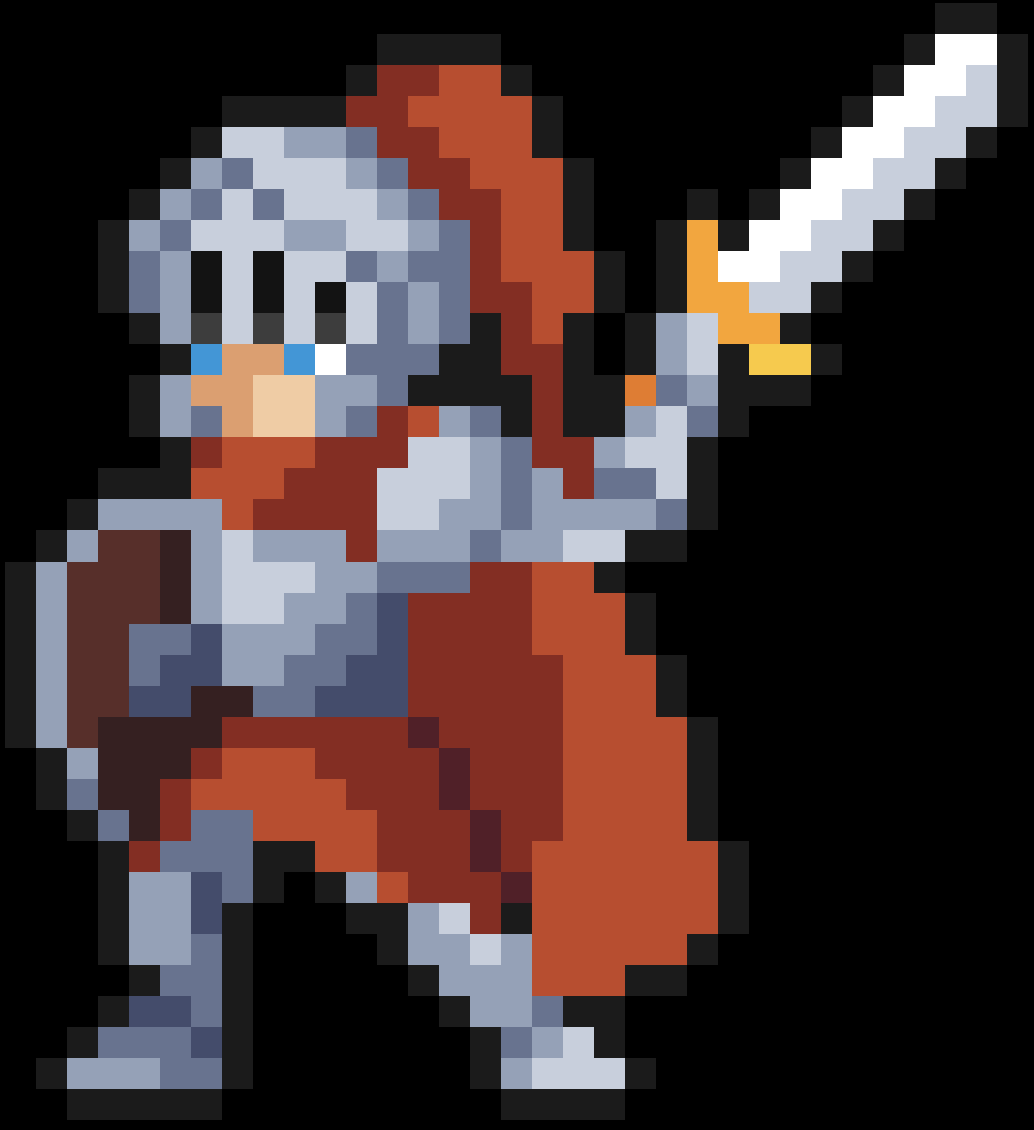
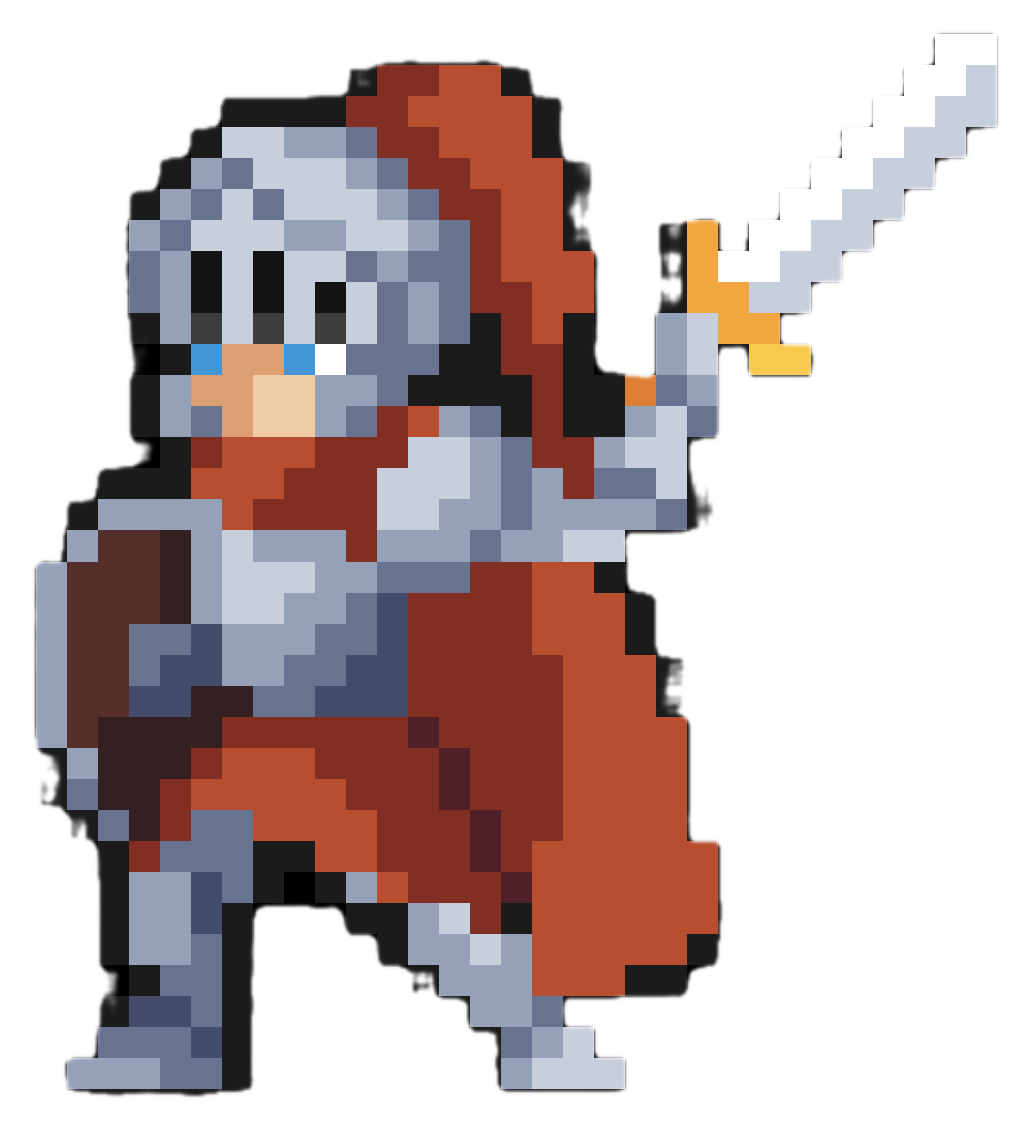
adicao de operator, correcao de codigo falho e jeitei o sprite dos cavaleiros

diff --git a/src/GerenciadorColisoes.cpp b/src/GerenciadorColisoes.cpp
@@ -19,7 +19,11 @@ namespace Gerenciadores {
         return instance;
     }
 
-    GerenciadorColisoes::GerenciadorColisoes() : pJog1(NULL), pJog2(NULL), limites(800.f, 600.f) {}
+    GerenciadorColisoes::GerenciadorColisoes() : pJog1(NULL), pJog2(NULL), limites(800.f, 600.f) {
+        ListaInimigos.clear();
+        ListaObstaculos.clear();
+        ListaProjetil.clear();
+    }
 
     GerenciadorColisoes::~GerenciadorColisoes() {}
 
@@ -278,6 +282,7 @@ void GerenciadorColisoes::removerJogadores(){
             if (boss == NULL) continue;
 
             Entidades::Projetil* proj = boss->getProjetil();
+            ListaProjetil.insert(proj);
 
             if (proj == NULL || !proj->estaAtivo())
                 continue;
@@ -289,6 +294,7 @@ void GerenciadorColisoes::removerJogadores(){
 
             if (std::abs(dx1) < metade + 8.f && std::abs(dy1) < metade + 8.f) {
                 proj->desativar();
+                ListaProjetil.erase(proj);
                 //if (!pJog1->estaImune())
                     pJog1->setInvulnerabilidade(0.9);
                     pJog1->tomarDano();
@@ -303,6 +309,7 @@ void GerenciadorColisoes::removerJogadores(){
 
                 if (std::abs(dx2) < metade + 8.f && std::abs(dy2) < metade + 8.f) {
                     proj->desativar();
+                    ListaProjetil.erase(proj);
                     //if (!pJog2->estaImune())
                         pJog2->setInvulnerabilidade(0.9);
                         pJog2->tomarDano();

diff --git a/src/FasePrimeira.cpp b/src/FasePrimeira.cpp
@@ -52,16 +52,19 @@ void FasePrimeira::criarInimigosDemonio(){
         Grid espaco = static_cast<Grid>(aux);
         if(mapa.estaOcupado(espaco)){
             CoordF pos = mapa.getCoord(espaco);
-            pos.y = pos.y-30;
-            Demonio* pDemo = NULL;
-            pDemo = new Demonio(pos, 2, 10.0f, 1 + (rand() % 10));
+            if(!mapa.estaOcupadoSpawn(espaco)){
+                pos.y = pos.y-30;
+                Demonio* pDemo = NULL;
+                pDemo = new Demonio(pos, 2, 10.0f, 1 + (rand() % 10));
  
-            if(pDemo!=NULL){
-                num_demonios_criados++;
-                vInimigos.push_back(pDemo);
- 
-                list_ents.incluir(pDemo);
-                pGC->incluirInimigo(pDemo);
+                if(pDemo!=NULL){
+                    num_demonios_criados++;
+                    vInimigos.push_back(pDemo);
+                    mapa.setOcupadoSpawn(espaco,true);
+                    
+                    list_ents.incluir(pDemo);
+                    pGC->incluirInimigo(pDemo);
+                }
             }
  
             else{
@@ -152,7 +155,6 @@ void FasePrimeira::executar(Personagens::Jogador* pJ1, Personagens::Jogador* pJ2
     tam_tela_compensada.y -= 8.0f; // Deixa a colisao mais bonita com os limites
     pGC->setLimite(tam_tela_compensada);
 
-    //list_ents.incluir(pJ1);
 
     sf::Clock clock;
     //setando o jogador

diff --git a/include/Fase.hpp b/include/Fase.hpp
@@ -29,10 +29,11 @@ class Map{
 private:
     std::map<Grid,CoordF> CoordGrid;
     std::map<Grid,bool> CoordUsado;
+    std::map<Grid,bool> CoordUsadoSpawn;
     
 public:
     Map() {
-        CoordGrid[T1] = CoordF(0.f, 120.f);
+        CoordGrid[T1] = CoordF(0.f, 150.f);
         CoordGrid[T2] = CoordF(270.f, 160.f);
         CoordGrid[T3] = CoordF(570.f, 180.f);
         CoordGrid[M1] = CoordF(0.f, 350.f);
@@ -45,6 +46,10 @@ public:
         CoordUsado[T1] = false; CoordUsado[T2] = false; CoordUsado[T3] = false;
         CoordUsado[M1] = false; CoordUsado[M2] = false; CoordUsado[M3] = false;
         CoordUsado[B1] = false; CoordUsado[B2] = false; CoordUsado[B3] = false;
+        
+        CoordUsadoSpawn[T1] = false; CoordUsadoSpawn[T2] = false; CoordUsadoSpawn[T3] = false;
+        CoordUsadoSpawn[M1] = false; CoordUsadoSpawn[M2] = false; CoordUsadoSpawn[M3] = false;
+        CoordUsadoSpawn[B1] = false; CoordUsadoSpawn[B2] = false; CoordUsadoSpawn[B3] = false;
     }
 
     void coordUsada(CoordF coord) {
@@ -71,6 +76,14 @@ public:
         void setOcupado(Grid espaco, bool ocupado) {
             CoordUsado[espaco] = ocupado;
         }
+    
+    bool estaOcupadoSpawn(Grid espaco){
+        return CoordUsadoSpawn[espaco];
+    }
+    
+    void setOcupadoSpawn(Grid espaco, bool ocupado){
+        CoordUsadoSpawn[espaco] = ocupado;
+    }
 };
     
 namespace Fases {

diff --git a/src/Fase.cpp b/src/Fase.cpp
@@ -100,16 +100,24 @@ void Fase::criarInimigosBixo(){
     for(int i = 0; i < Max_inimBixo; i++){
         Grid espaco = espacosOcupados[rand() % espacosOcupados.size()];
         CoordF pos = mapa.getCoord(espaco);
-
-        Bixo* pInim = new Personagens::Bixo(pos);
-        pos.y = pos.y-40;
-        if(pInim != NULL){
-            vInimigos.push_back(pInim);
-
-            mapa.setOcupado(espaco, false);
-
-            list_ents.incluir(pInim);
-            pGC->incluirInimigo(pInim);
+        
+        if(!mapa.estaOcupadoSpawn(espaco)){
+            
+            
+            
+            Bixo* pInim = new Personagens::Bixo(pos);
+            pos.y = pos.y-40;
+            if(pInim != NULL){
+                vInimigos.push_back(pInim);
+                
+                mapa.setOcupado(espaco, false);
+                mapa.setOcupadoSpawn(espaco,true);
+                
+                list_ents.incluir(pInim);
+                pGC->incluirInimigo(pInim);
+            }
+        }else{
+            i--;
         }
     }
 }

diff --git a/src/Demonio.cpp b/src/Demonio.cpp
@@ -53,6 +53,9 @@ namespace Personagens {
         pos.y += vel.y * dt;
 
     }
+    void Demonio::operator++(){
+        fome++;
+    }
 
 
     void Demonio::danificar(Jogador* pJog){
@@ -63,13 +66,14 @@ namespace Personagens {
                 
                 if(olhandoEsquerda){
                     pJog->setPos(CoordF(pJog->getPos().x+60,pJog->getPos().y-30)); // pulinho para tras
+                    this->operator++();
                 }
                 else{
                     pJog->setPos(CoordF(pJog->getPos().x-60,pJog->getPos().y-30)); // pulinho para frente
+                    this->operator++();
                     
                     
                 }
-                //pJog->setInvulneravel(true); // depois de levar o dano fica imune
             }
             
             

diff --git a/src/Gelo.cpp b/src/Gelo.cpp
@@ -42,12 +42,11 @@ bool Gelo::obstruir(CoordF& posJogador, float& velocidadeX, float& velocidadeY,
 
     if (colisaoX && colisaoY) {
         // tremida lateral aleatória
-        float tremida = (rand() % 5) - 2.f; // -2, -1, 0, 1 ou 2 pixels
-        posJogador.x += tremida;
+        float tremida = (rand() % 5) - 2.f; //-2,-1,0,1,2 pixels
+        posJogador.x += tremida*temperatura;
 
-        // empurra levemente pra baixo — ativa a queda
-        velocidadeX = 80.f; // valor fixo, sem depender de temperatura
-        //noChao = false;
+        velocidadeX = 80.f/temperatura;
+        noChao = false;  //faz o boneco ter animacao de escorregar
         return true;
     }
 

diff --git a/src/Bixo.cpp b/src/Bixo.cpp
@@ -9,22 +9,6 @@ namespace Personagens {
     
     Bixo::~Bixo() {}
     
-    // void Bixo::executar() {
-
-    //     this->atualizarAnimacao(Animation_ID::idle,olhandoEsquerda,dt_local);
-
-    //     bool jogadorMaisProx = this->jogadorProximo();
-
-    //     if(jogadorMaisProx) { // False = jog1, True = jog2
-    //         this->perseguir(pJogador2->getPos(), dt_local);
-            
-    //         }
-    //     else {
-    //         this->perseguir(pJogador1->getPos(), dt_local);
-            
-    //     }
-    //     this->desenhar();
-    // }
     
     void Bixo::executar() {
         this->atualizarAnimacao(Animation_ID::idle, olhandoEsquerda, dt_local);

diff --git a/include/GerenciadorColisoes.hpp b/include/GerenciadorColisoes.hpp
@@ -3,12 +3,14 @@
  
 #include <vector>
 #include <list>
+#include <set>
 #include <cmath>
 #include "Jogador.hpp"
 #include "Inimigo.hpp"
 #include "Demonio.hpp"
 #include "Bixo.hpp"
 #include "Obstaculo.hpp"
+#include "Projetil.hpp"
  
 using namespace Personagens;
 using namespace Obstaculos;
@@ -20,6 +22,7 @@ namespace Gerenciadores {
  
             std::vector<Personagens::Inimigo*> ListaInimigos;
             std::list<Obstaculos::Obstaculo*> ListaObstaculos;
+            std::set<Entidades::Projetil*> ListaProjetil;
             
             Personagens::Jogador* pJog1;
             Personagens::Jogador* pJog2;

diff --git a/src/Jogo.cpp b/src/Jogo.cpp
@@ -39,12 +39,12 @@ void Jogo::executar() {
     if(fase == 0)
         return;
 
-    pJ1 = new Personagens::Jogador(CoordF(200.f,200.f),300,0,200.f);
+    pJ1 = new Personagens::Jogador(CoordF(200.f,200.f),200,0,200.f);
     pJ1->initialize(true);
 
     pJ2 = NULL;
     if (pMenu->getMultiplayer()) {
-        pJ2 = new Personagens::Jogador(CoordF(240.f,200.f),3,0,200.f);
+        pJ2 = new Personagens::Jogador(CoordF(240.f,200.f),200,0,200.f);
         pJ2->initialize(false);
     }
 

diff --git a/src/Ente.cpp b/src/Ente.cpp
@@ -14,15 +14,3 @@ Ente::~Ente() {}
 void Ente::desenhar(){
     sprite.render();
 }
-
-// void Ente::desenharHitbox() {
-//     std::cout << "Desnhando hitbox (debug)" << std::endl;
-//     sf::RectangleShape debug = hitbox;
-
-//     debug.setFillColor(sf::Color::Transparent);
-//     debug.setOutlineThickness(2.f);
-//     debug.setOutlineColor(sf::Color::Red);
-
-//     pGG->getWindow()->draw(debug);
-// }
-

diff --git a/src/FaseSegunda.cpp b/src/FaseSegunda.cpp
@@ -147,7 +147,6 @@ void FaseSegunda::executar(Personagens::Jogador* pJ1, Personagens::Jogador* pJ2)
     tam_tela_compensada.y -= 8.0f; // Deixa a colisao mais bonita com os limites
     pGC->setLimite(tam_tela_compensada);
 
-    //list_ents.incluir(pJ1);
 
     sf::Clock clock;
     //setando o jogador

diff --git a/include/Demonio.hpp b/include/Demonio.hpp
@@ -18,6 +18,8 @@ namespace Personagens {
             void morrer();
             void initialize();
             void danificar(Jogador* pJog);
+        
+            void operator++();
 
             void gravidade(float dt, float gravidade);
             
